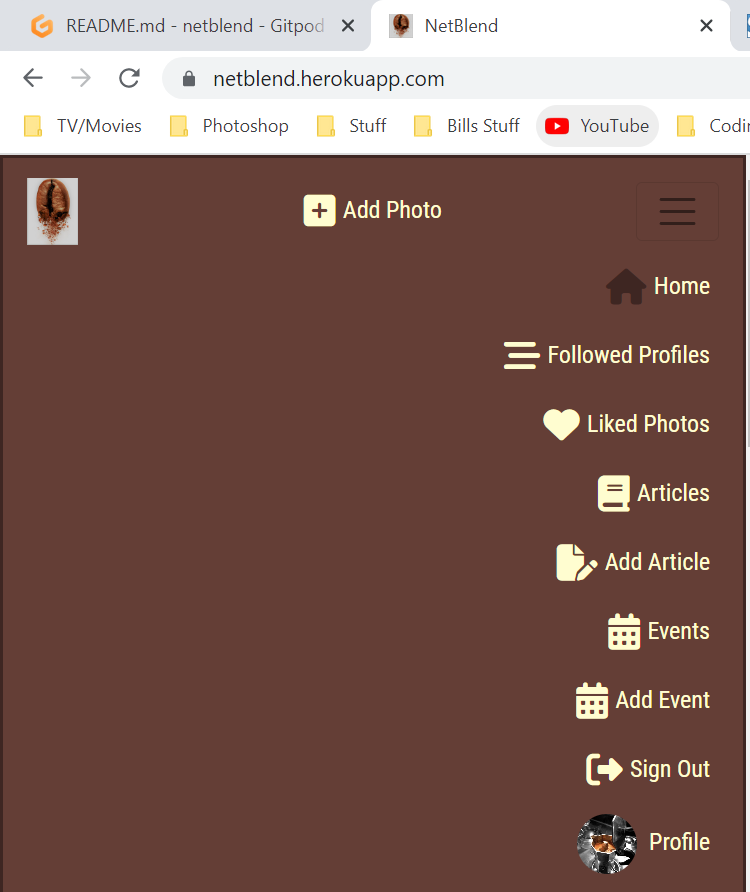
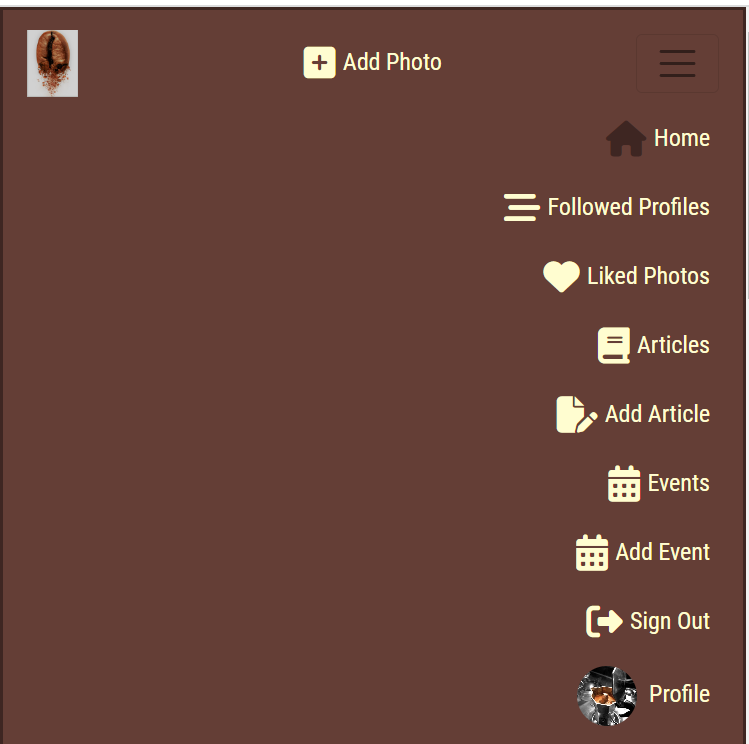
back up point for readme.md

Changed region(s): [[0.0, 0.0, 1.0, 1.0], [0.737, 0.5255, 0.9519, 0.9892], [0.3992, 0.2164, 0.5834, 0.2782]]

diff --git a/README.md b/README.md
@@ -93,7 +93,7 @@ You can find a list of the user stories [here](src/readme/Userstories.md).
 
 ### **Colour Scheme**
 
-[!Colour Palette](src/readme/images/2.%20Readme-Coolors.png)
+![Colour Palette](src/readme/images/2.%20Readme-Coolors.png)
 
 ### **Typography**
 
@@ -114,65 +114,79 @@ The imagery used for the [Not Found Page](#not-found-page), in the [Add Photos](
 
 #### Mobile
 
-[Navbar](src/readme/images/3.%20Readme-NavBar-Mobile.png)
+![Navbar](src/readme/images/3.%20Readme-NavBar-Mobile.png)
 
 #### PC
 
-[Navbar](src/readme/images/3.%20Readme-NavBar-PC.png)
+![Navbar](src/readme/images/3.%20Readme-NavBar-PC.png)
 
 ### Add Photos
 
-[Add Photos](src/readme/images/4.%20Add%20Photo%20Page.png)
+![Add Photos](src/readme/images/4.%20Add%20Photo%20Page.png)
 
 ### Profile
 
-[Profile](src/readme/images/5.%20Readme-Profile.png)
+![Profile](src/readme/images/5.%20Readme-Profile.png)
 
 ### Followed Profiles
 
-[Followed Profiles](src/readme/images/6.%20Readme-Followed-Profiles.png)
+![Followed Profiles](src/readme/images/6.%20Readme-Followed-Profiles.png)
 
 ### Liked Photos
 
-[Liked Photos](src/readme/images/7.%20Readme-Liked-Photos.png)
+![Liked Photos](src/readme/images/7.%20Readme-Liked-Photos.png)
 
 ### Posts/Uploads
 
-[Posts/Uploads](src/readme/images/8.%20Readme-Uploads-Posts.png)
+![Posts/Uploads](src/readme/images/8.%20Readme-Uploads-Posts.png)
 
 ### Articles
 
-[Articles](src/readme/images/9.%20Readme-Articles.png)
+![Articles](src/readme/images/9.%20Readme-Articles.png)
 
 ### Add Articles
 
-[Add Articles](src/readme/images/10.%20Readme-Create-Article.png)
+![Add Articles](src/readme/images/10.%20Readme-Create-Article.png)
 
 ### Events
 
-[Events](src/readme/images/11.%20Readme-Events.png)
+![Events](src/readme/images/11.%20Readme-Events.png)
 
 ### Add Events
 
-[Add Events](src/readme/images/12.%20Readme-Create-Events.png)
+![Add Events](src/readme/images/12.%20Readme-Create-Events.png)
 
 ### Sign In/Up
 
-[Sign In/Up](src/readme/images/13.%20Readme-SignIn.png)
-[Sign In/Up](src/readme/images/13.%20Readme-SignUp.png)
+![Sign In/Up](src/readme/images/13.%20Readme-SignIn.png)
+![Sign In/Up](src/readme/images/13.%20Readme-SignUp.png)
 
 ### Not Found Page
 
-[Not Found Page](src/readme/images/14.%20Readme-NotFoundPage.png)
+![Not Found Page](src/readme/images/14.%20Readme-NotFoundPage.png)
 
 ---
 
 ## **Future Features**
-
+With more experience and understanding of react there are a number of features I'd love to add in the future, including the following;
+ - A confirmation warning if a user is about to delete something.
+ - The ability to expand a profile picture to see the full thing.
+ - Allowing users to share their posts to other social media sites via a share button.
+ - Comments on articles and events would be amazing.
+ - Notifications to the users phone or email when someone else interacts with *anything* that they have posted.
+ - Most importantly, **block** certain users, to allow users the freedom to hide their pages from who they wish.
 ---
 
-## **Testing**
-
+## **Manual Testing**
+1. CRUD functionality has been tested for each of the following: Posts | Articles | Events | Comments | Likes | Follow | Profile
+ - Likes & Follow may only be created & deleted
+ - Profile may only be updated
+2. Navigation links open to the correct pages.
+3. Pages intended for logged-in users only will send logged-out users back to the home page.
+4. Users trying to edit content that they did not publish are sent back to the home page.
+6. Users are able to create a new account.
+7. Users with an existing account are able to log in.
+8. Each user has the ability to log out.
 ---
 
 ## **Bugs**
